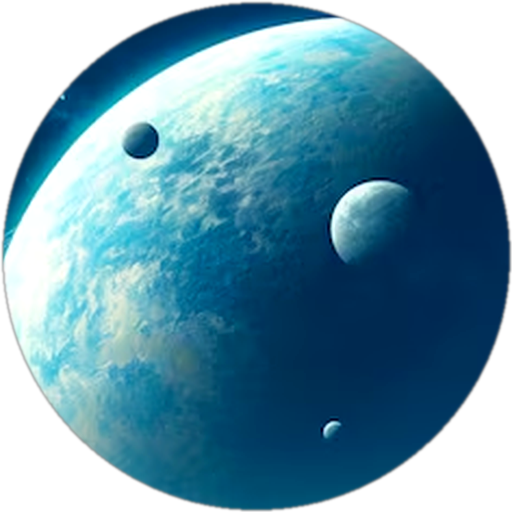
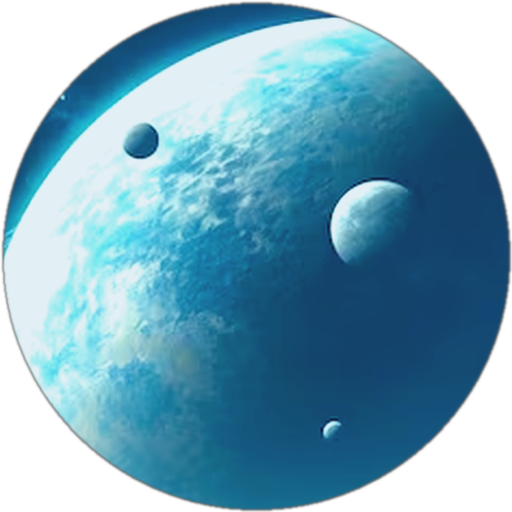
Align planet colors with desktop palette

diff --git a/style.css b/style.css
@@ -92,8 +92,8 @@ kbd {
 .planet--xl {
   --d: clamp(280px, 30vw, 430px);
   background: url("assets/dystopian-planet.png") center / cover;
-  box-shadow: inset -24px -32px 56px rgb(2 20 48 / 0.42), 0 12px 44px rgb(47 128 237 / 0.34);
-  filter: saturate(1.12) contrast(1.06);
+  box-shadow: inset -24px -32px 56px rgb(24 71 138 / 0.28), 0 12px 44px rgb(47 128 237 / 0.3);
+  filter: hue-rotate(12deg) saturate(0.9) contrast(0.92) brightness(1.06);
 }
 
 .planet--xl.planet--ringed::after {
@@ -122,6 +122,10 @@ kbd {
 
 .wallpaper .planet {
   opacity: 0.78;
+}
+
+.wallpaper .planet--xl {
+  opacity: 0.68;
 }
 
 .wallpaper .sparkle:nth-of-type(2n) { animation-delay: -1.4s; }
